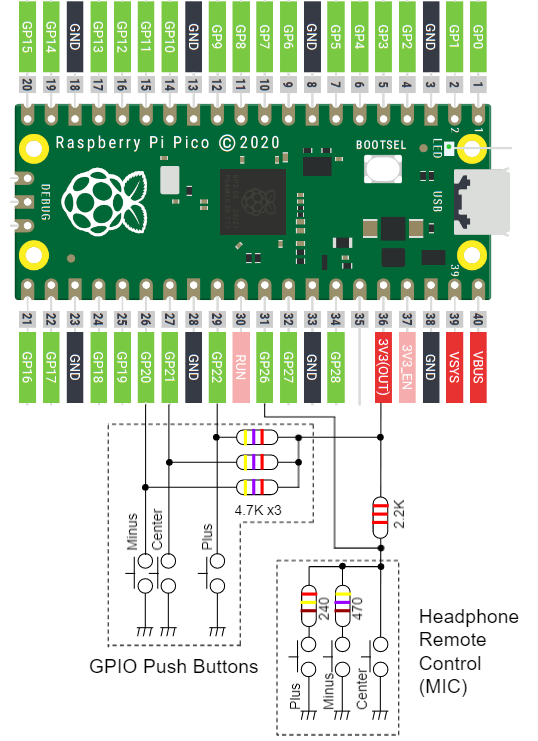
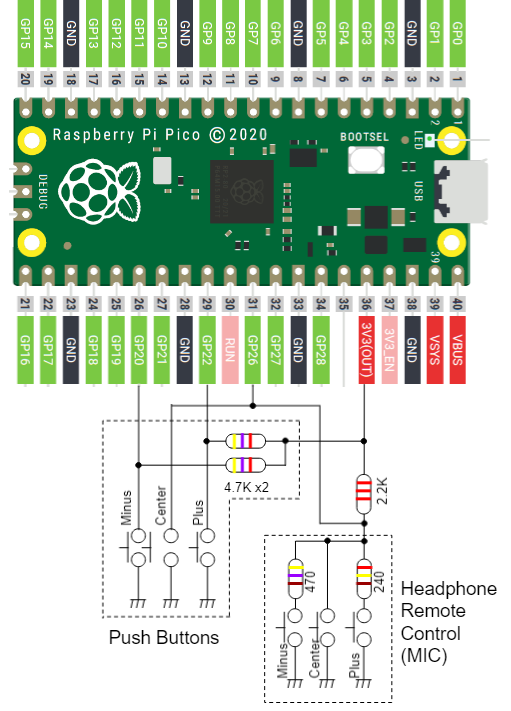
feat: introduced "goto dormant and wake up" cycle when charging

Changed region(s): [[0.0, 0.0, 0.9687, 1.0]]

diff --git a/src/power_manage.cpp b/src/power_manage.cpp
@@ -8,15 +8,20 @@
 #include <cstdio>
 #include "pico/stdlib.h"
 #include "pico/sleep.h"
+#include "hardware/pll.h"
+#include "hardware/clocks.h"
+#include "hardware/structs/clocks.h"
+#include "hardware/structs/scb.h"
+#include "hardware/rosc.h"
 #include "hardware/gpio.h"
 #include "hardware/adc.h"
 #include "hardware/pwm.h"
+#include "hardware/sync.h"
 #include "st7735_80x160/lcd.h"
 #include "ui_control.h"
 #include "ConfigParam.h"
 #include "ConfigMenu.h"
 
-static bool low_power_mode = false;
 static repeating_timer_t timer;
 // ADC Timer frequency
 const int TIMER_BATTERY_CHECK_HZ = 20;
@@ -66,7 +71,7 @@ void pm_backlight_init(uint32_t bl_val)
 {
     // BackLight PWM (125MHz / 65536 / 4 = 476.84 Hz)
     gpio_set_function(PIN_LCD_BLK, GPIO_FUNC_PWM);
-    uint slice_num = pwm_gpio_to_slice_num(PICO_DEFAULT_LED_PIN);
+    uint32_t slice_num = pwm_gpio_to_slice_num(PIN_LCD_BLK);
     pwm_config config = pwm_get_default_config();
     pwm_config_set_clkdiv(&config, 4.f);
     pwm_init(slice_num, &config, true);
@@ -117,7 +122,7 @@ void pm_init()
     gpio_put(PIN_DCDC_PSM_CTRL, 1); // PWM mode for less Audio noise
 
     // BackLight
-    pm_backlight_init(192);
+    pm_backlight_init(GET_CFG_MENU_DISPLAY_BACKLIGHT_HIGH_LEVEL);
 
     // Battery Check Timer start
     timer_init_battery_check();
@@ -173,15 +178,79 @@ uint16_t pm_get_battery_voltage()
     return _bat_mv;
 }
 
-void pm_set_low_power_mode(bool flag)
+// recover_from_sleep: which is great code from https://github.com/ghubcoder/PicoSleepDemo
+static void recover_from_sleep(uint32_t scb_orig, uint32_t clock0_orig, uint32_t clock1_orig){
+
+    //Re-enable ring Oscillator control
+    rosc_write(&rosc_hw->ctrl, ROSC_CTRL_ENABLE_BITS);
+
+    //reset procs back to default
+    scb_hw->scr = scb_orig;
+    clocks_hw->sleep_en0 = clock0_orig;
+    clocks_hw->sleep_en1 = clock1_orig;
+
+    //reset clocks
+    clocks_init();
+    stdio_init_all();
+
+    return;
+}
+
+void pm_enter_dormant_and_wake()
 {
-    if (flag && !low_power_mode) {
-        pwm_set_gpio_level(PIN_LCD_BLK, 0);
-        gpio_put(PIN_DCDC_PSM_CTRL, 0); // PFM mode for better efficiency
-    } else if (!flag && low_power_mode) {
-        uint32_t bl_val = GET_CFG_MENU_DISPLAY_BACKLIGHT_LOW_LEVEL;
-        pwm_set_gpio_level(PIN_LCD_BLK, bl_val * bl_val);
-        gpio_put(PIN_DCDC_PSM_CTRL, 1); // PWM mode for less Audio noise
-    }
-    low_power_mode = flag;
+    // Preparation for dormant
+    gpio_init(PIN_LCD_BLK);
+    gpio_set_dir(PIN_LCD_BLK, GPIO_OUT);
+    gpio_put(PIN_LCD_BLK, 0);
+    gpio_put(PICO_DEFAULT_LED_PIN, 0);
+    gpio_put(PIN_DCDC_PSM_CTRL, 0); // PFM mode for better efficiency
+
+    uint32_t scb_orig = scb_hw->scr;
+    uint32_t clock0_orig = clocks_hw->sleep_en0;
+    uint32_t clock1_orig = clocks_hw->sleep_en1;
+
+    // goto dormant then wake up
+    uint32_t ints = save_and_disable_interrupts();
+    uint32_t pin = ui_set_center_switch_for_wakeup(true);
+    sleep_run_from_xosc();
+    sleep_goto_dormant_until_pin(pin, true, false); // fall edge to wake up
+
+    // Treatment after wake up
+    recover_from_sleep(scb_orig, clock0_orig, clock1_orig);
+    restore_interrupts(ints);
+    ui_set_center_switch_for_wakeup(false);
+    pw_pll_usb_96MHz();
+    gpio_put(PIN_DCDC_PSM_CTRL, 1); // PWM mode for less Audio noise
+    pm_backlight_init(GET_CFG_MENU_DISPLAY_BACKLIGHT_HIGH_LEVEL);
+    pm_backlight_update();
+
+    // wake up alert
+    gpio_put(PICO_DEFAULT_LED_PIN, 1);
+    sleep_ms(500);
+    gpio_put(PICO_DEFAULT_LED_PIN, 0);
+}
+
+void pw_pll_usb_96MHz()
+{
+    // Set PLL_USB 96MHz
+    pll_init(pll_usb, 1, 1536 * MHZ, 4, 4);
+    clock_configure(clk_usb,
+        0,
+        CLOCKS_CLK_USB_CTRL_AUXSRC_VALUE_CLKSRC_PLL_USB,
+        96 * MHZ,
+        48 * MHZ);
+    // Change clk_sys to be 96MHz.
+    clock_configure(clk_sys,
+        CLOCKS_CLK_SYS_CTRL_SRC_VALUE_CLKSRC_CLK_SYS_AUX,
+        CLOCKS_CLK_SYS_CTRL_AUXSRC_VALUE_CLKSRC_PLL_USB,
+        96 * MHZ,
+        96 * MHZ);
+    // CLK peri is clocked from clk_sys so need to change clk_peri's freq
+    clock_configure(clk_peri,
+        0,
+        CLOCKS_CLK_PERI_CTRL_AUXSRC_VALUE_CLK_SYS,
+        96 * MHZ,
+        96 * MHZ);
+    // Reinit uart now that clk_peri has changed
+    stdio_init_all();
 }

diff --git a/src/main.cpp b/src/main.cpp
@@ -7,9 +7,6 @@
 #include <stdio.h>
 #include <string.h>
 #include "pico/stdlib.h"
-#include "hardware/pll.h"
-#include "hardware/clocks.h"
-#include "hardware/structs/clocks.h"
 #include "hardware/adc.h"
 #include "hardware/gpio.h"
 #include "power_manage.h"
@@ -17,44 +14,16 @@
 
 const char *VersionStr = "0.8.2";
 
-// PIN setting
-static const uint32_t PIN_LED = 25;
-
 static inline uint32_t _millis(void)
 {
 	return to_ms_since_boot(get_absolute_time());
-}
-
-static void audio_clock_96MHz()
-{
-    // Set PLL_USB 96MHz
-    pll_init(pll_usb, 1, 1536 * MHZ, 4, 4);
-    clock_configure(clk_usb,
-        0,
-        CLOCKS_CLK_USB_CTRL_AUXSRC_VALUE_CLKSRC_PLL_USB,
-        96 * MHZ,
-        48 * MHZ);
-    // Change clk_sys to be 96MHz.
-    clock_configure(clk_sys,
-        CLOCKS_CLK_SYS_CTRL_SRC_VALUE_CLKSRC_CLK_SYS_AUX,
-        CLOCKS_CLK_SYS_CTRL_AUXSRC_VALUE_CLKSRC_PLL_USB,
-        96 * MHZ,
-        96 * MHZ);
-    // CLK peri is clocked from clk_sys so need to change clk_peri's freq
-    clock_configure(clk_peri,
-        0,
-        CLOCKS_CLK_PERI_CTRL_AUXSRC_VALUE_CLK_SYS,
-        96 * MHZ,
-        96 * MHZ);
-    // Reinit uart now that clk_peri has changed
-    stdio_init_all();
 }
 
 int main() {
     stdio_init_all();
 
     // Set PLL_USB 96MHz and use it for PIO clock for I2S
-    audio_clock_96MHz();
+    pw_pll_usb_96MHz();
 
     // Power Manage Init
     pm_init();
@@ -66,8 +35,9 @@ int main() {
     gpio_set_function(1, GPIO_FUNC_UART);
 
     // LED
-    gpio_init(PIN_LED);
-    gpio_set_dir(PIN_LED, GPIO_OUT);
+    gpio_init(PICO_DEFAULT_LED_PIN);
+    gpio_set_dir(PICO_DEFAULT_LED_PIN, GPIO_OUT);
+    gpio_put(PICO_DEFAULT_LED_PIN, 0);
 
     // Wait before stable power-on for 750ms
     // to avoid unintended power-on when Headphone plug in

diff --git a/src/UIMode.cpp b/src/UIMode.cpp
@@ -116,22 +116,13 @@ UIChargeMode::UIChargeMode() : UIMode("UIChargeMode", ChargeMode)
 
 UIMode* UIChargeMode::update()
 {
-    if (ui_get_btn_evt(&btn_act)) {
-        vars->do_next_play = None;
-        switch (btn_act) {
-            case ButtonCenterLong:
-                lcd.setMsg("");
-                pm_set_power_keep(true);
-                pm_set_low_power_mode(false);
-                return getUIMode(OpeningMode);
-                break;
-            default:
-                break;
-        }
-        idle_count = 0;
-    }
+    ui_get_btn_evt(&btn_act);
     if (idle_count >= 2*OneSec) {
-        pm_set_low_power_mode(true);
+        lcd.setMsg("");
+        lcd.clear(true);
+        pm_enter_dormant_and_wake();
+        pm_set_power_keep(true);
+        return getUIMode(OpeningMode);
     }
     idle_count++;
     return this;

diff --git a/src/ui_control.cpp b/src/ui_control.cpp
@@ -8,9 +8,7 @@
 #include "hardware/gpio.h"
 #include "hardware/adc.h"
 #include "st7735_80x160/lcd.h"
-extern "C" {
 #include "pico/util/queue.h"
-}
 #include "power_manage.h"
 #include "ui_control.h"
 
@@ -212,6 +210,17 @@ static int timer_init_ui_button()
     }
 
     return 1;
+}
+
+uint32_t ui_set_center_switch_for_wakeup(bool flg)
+{
+    if (flg) {
+        gpio_set_dir(PIN_HP_BUTTON, GPIO_IN);
+        gpio_set_input_enabled(PIN_HP_BUTTON, true);
+    } else {
+        adc_gpio_init(PIN_HP_BUTTON);
+    }
+    return PIN_HP_BUTTON;
 }
 
 bool ui_get_btn_evt(button_action_t *btn_act)

diff --git a/src/power_manage.h b/src/power_manage.h
@@ -22,7 +22,8 @@ bool pm_is_charging();
 void pm_set_power_keep(bool value);
 bool pm_get_low_battery();
 uint16_t pm_get_battery_voltage();
-void pm_set_low_power_mode(bool flag);
+void pm_enter_dormant_and_wake();
+void pw_pll_usb_96MHz();
 
 #ifdef __cplusplus
 }

diff --git a/src/ui_control.h b/src/ui_control.h
@@ -38,6 +38,7 @@ void ui_init();
 ui_mode_enm_t ui_update();
 ui_mode_enm_t ui_force_update(ui_mode_enm_t ui_mode_enm);
 uint16_t ui_get_idle_count();
+uint32_t ui_set_center_switch_for_wakeup(bool flg);
 
 #ifdef __cplusplus
 }

diff --git a/src/UserFlash.h b/src/UserFlash.h
@@ -7,10 +7,8 @@
 #ifndef _USER_FLASH_H_
 #define _USER_FLASH_H_
 
-extern "C" {
 #include "hardware/flash.h"
 #include "hardware/sync.h"
-}
 
 //=================================
 // Interface of UserFlash class

diff --git a/Readme.md b/Readme.md
@@ -74,17 +74,16 @@ For battery operation, use 3V3(OUT) pin as described in schematic.
 
 ![microsd_schematic](doc/RPi_Pico_WAV_Player_microsd_Schematic.png)
 
-### Switch Buttons
+### Control Switches
 At least either of GPIO Push Buttons or Headphone Remote Control Buttons need to be implemented.
 
 | Pico Pin # | GPIO | Function | Connection |
 ----|----|----|----
-| 26 | GP20 | GPIO | GPIO Push Button (Minus) |
-| 27 | GP21 | GPIO | GPIO Push Button (Center) |
-| 29 | GP22 | GPIO | GPIO Push Button (Plus) |
-| 31 | GP26 | ADC0 | Headphone Remote Control (MIC pin) |
+| 26 | GP20 | GPIO | Push Button (Minus) |
+| 29 | GP22 | GPIO | Push Button (Plus) |
+| 31 | GP26 | ADC0 | Headphone Remote Control (MIC pin) and/or Push Button (Center)|
 
-* When GPIO Push Buttons are not implemented, pull up GP20, GP21 and GP22 with 4.7Kohm x 3.
+* When GPIO Push Buttons are not implemented, pull up GP20 and GP22 with 4.7Kohm x 2.
 * When Headphone Remote Control Buttons are not implemented, pull up GP26 with 2.2Kohm.
 
 ![buttons_schematic](doc/RPi_Pico_WAV_Player_buttons_Schematic.png)
